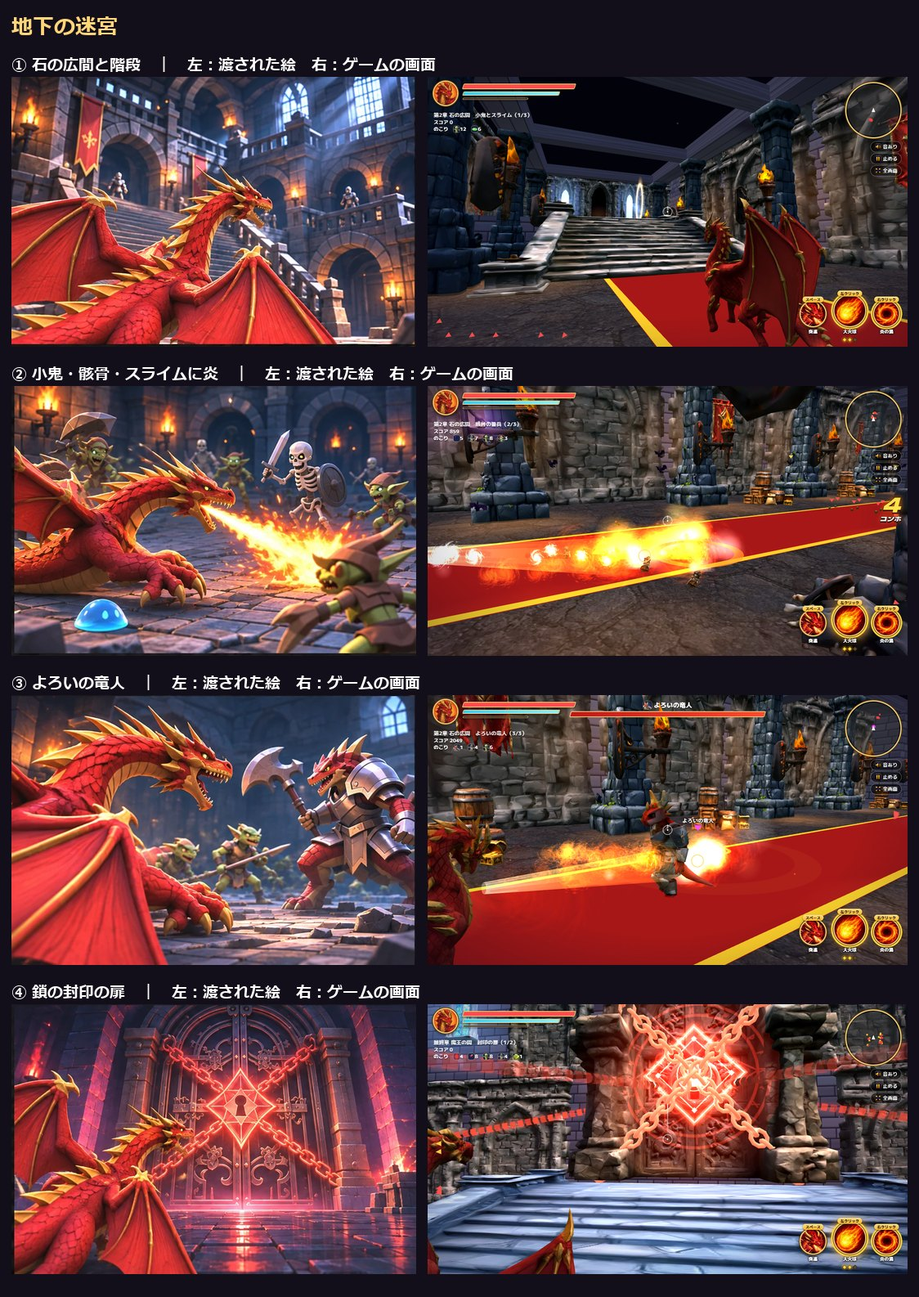
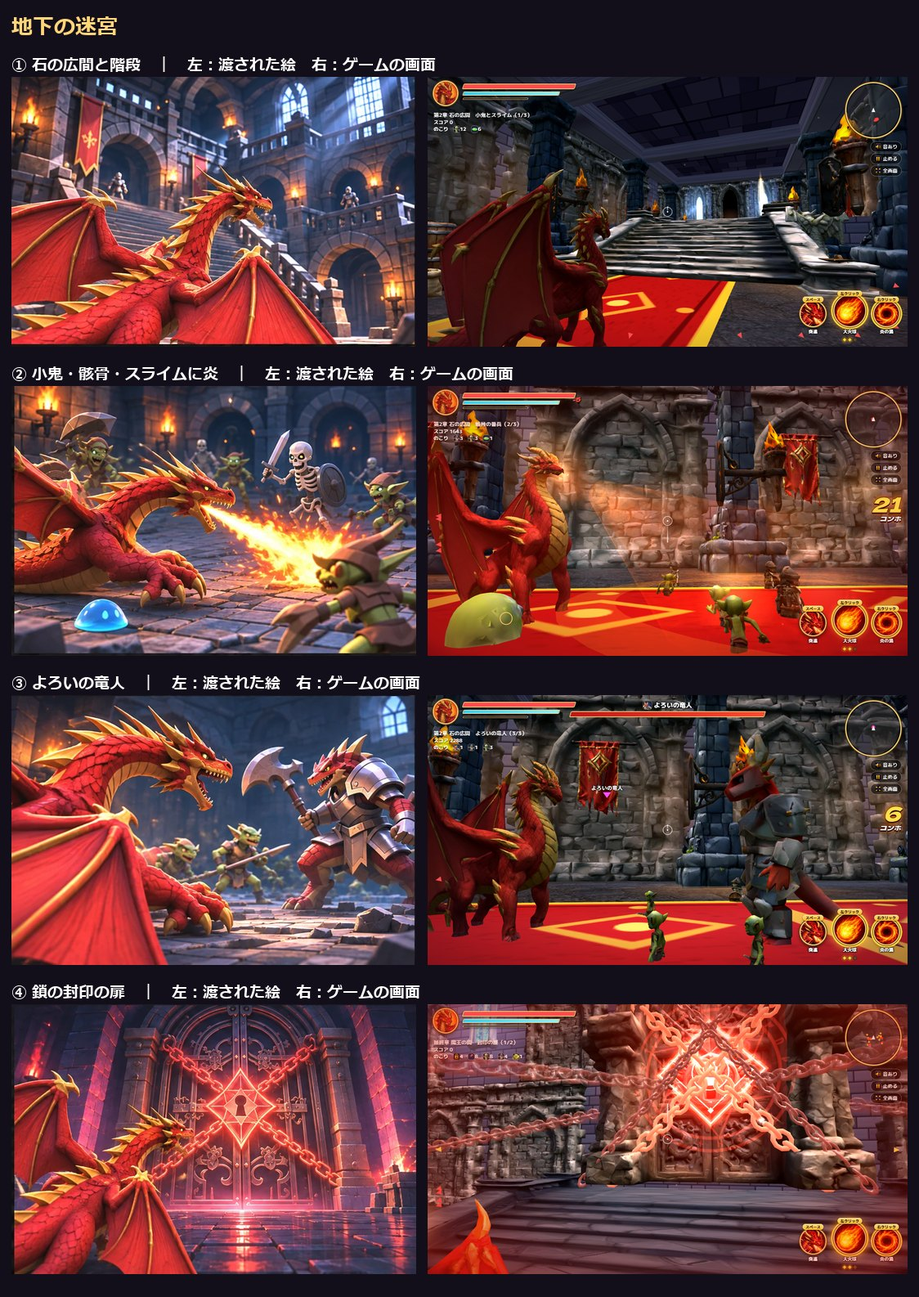
ゲームを更新

diff --git a/hikaku.html b/hikaku.html
@@ -34,8 +34,8 @@ small{color:#b9afcf}
 </style></head><body><main>
 <a class="back" href="./">▶ ゲームを遊ぶ</a>
 <h1>渡された絵 と ゲーム画面の見比べ</h1>
-<p><small>2026年11月15日　版 1116aazp　（左：渡された絵　右：ゲームの画面）</small></p>
-<p class="lead">結論：ふみさんの2回めの指示（11/15 午後）で、表紙の4コマ・洞窟・ワイバーン・迷宮・ゴーレム戦・魔王の間を、絵と同じ構図になるように撮り直しました。王城は、とがった塔のならぶ石の城に作り直しました。洞窟には竜の登場の場面、迷宮には大階段と鎖の封印の扉、魔王の間には「半身封印 → 全身解放」の順番が入りました。まだ弱いのは、谷の地面のやわらかさ、迷宮の敵の小ささ、魔王の間のかべの色です。</p>
+<p><small>2026年11月15日　版 1116aazq　（左：渡された絵　右：ゲームの画面）</small></p>
+<p class="lead">結論：ふみさんの2回めの指示（11/15 午後）で、表紙の4コマ・洞窟・ワイバーン・迷宮・ゴーレム戦・魔王の間を、絵と同じ構図になるように撮り直しました。王城は、とがった塔のならぶ石の城に作り直しました。洞窟には竜の登場の場面、迷宮には大階段と鎖の封印の扉、魔王の間には「半身封印 → 全身解放」の順番が入りました。まだ弱いのは、谷の地面のやわらかさ、炎の形（丸い火の玉のつらなり）、魔王の間のかべの色です。</p>
 <p class="lead" style="font-size:15px">✍ <b>文字で指示できます。</b>各コマの下の黄色い箱で、直したい所にチェック → コピー → Claude Code に貼ってください。コマの見出しも文字で選べます。　関連：<a href="https://dragon-taihi-fumi.surge.sh/">前後の対比</a>／<a href="https://dragon-kamishibai-fumi.surge.sh/">紙芝居の一覧</a>／<a href="https://dragon-shincho-fumi.surge.sh/">身長くらべ</a></p><div class="toc"><a href="#s1">表紙の4コマ</a><a href="#s2">勇者の一行との戦い（洞窟）</a><a href="#s3">ワイバーンとの一騎打ち</a><a href="#s4">地下の迷宮</a><a href="#s5">封印の扉の前のゴーレム戦</a><a href="#s6">魔王の間</a><a href="#s7">こわれる時のかけら（前と今）</a></div>
 <section id="s1"><h2>表紙の4コマ</h2><img src="hikaku.jpg" alt="表紙の4コマ：渡された絵とゲームの画面">
 <div class="card ok"><b>合っている所</b><ul><li>左上：低い所から見上げた、ほえる竜。頭は画面の上、口もとに炎の光。右うしろに、とがった塔のならぶ王城。</li><li>右上：竜が画面の左に大きく、ななめに飛ぶ。行く先に金色の輪が2つ、下に滝と石のアーチ、右上の空にワイバーン、ふちに疾走感の筋。</li><li>左下：左上の竜から右下のゴーレムへ炎のすじ。胸が青く光り、岩のかけらが飛ぶ。</li><li>右下：左下の手前に竜の背と翼。まん中に兵の隊列と投石機、燃える城壁と城、奥の右上に王城。</li></ul></div>
@@ -50,13 +50,13 @@ small{color:#b9afcf}
 <div class="card ng"><b>まだちがう所</b><ul><li>地面は、色のむらと小石を足したが、絵のやわらかい草原には届いていない。</li><li>④は、絵ほど腕や首ががっちり組んでいない。</li><li>③の炎は、丸いかたまりのつらなり。</li></ul></div>
 <div class="card fix"><b>今回直した事</b><ul><li>空を深い青と大きな雲に。一騎打ちの舞台に、石の遺跡・アーチ・滝のがけ・草と花を足した（ふみさん「空の描写、地面の描写とオブジェクト」）。</li><li>突っこむ時の土けむりと石つぶて、ぶつかる時の星形の光、風の帯、速さの筋を足した。</li><li>4コマとも、2体を大きく映して撮り直した（台本 tripo\patches\wyv_look.py・wyv_look2.py、撮る台本 tripo\shots\wyvD\wyv4.py）。</li></ul></div><div class="sjw"><div class="sjt">✍ このコマを直したい時：直したい所にチェック →（書ける時は）どう直すかを書く → コピーして Claude Code に貼る</div><div class="sj" data-sec="ワイバーンとの一騎打ち" data-cap="① 低く突っこんでくる" data-dflt="手本の絵に近づける"><div class="sjh">① 低く突っこんでくる</div><label class="sjp"><input type="checkbox" class="sjk"><span class="sjn">土けむりと疾走感</span><input type="text" class="sji" placeholder="どう直すか（空なら「手本の絵に近づける」）"></label><label class="sjp"><input type="checkbox" class="sjk"><span class="sjn">緑のワイバーンのグラフィック</span><input type="text" class="sji" placeholder="どう直すか（空なら「手本の絵に近づける」）"></label><label class="sjp"><input type="checkbox" class="sjk"><span class="sjn">滝と遺跡の背景</span><input type="text" class="sji" placeholder="どう直すか（空なら「手本の絵に近づける」）"></label><label class="sjp"><input type="checkbox" class="sjk"><span class="sjn">空と雲の描写</span><input type="text" class="sji" placeholder="どう直すか（空なら「手本の絵に近づける」）"></label><label class="sjp"><input type="checkbox" class="sjk"><span class="sjn">キャラクター同士の距離</span><input type="text" class="sji" placeholder="どう直すか（空なら「手本の絵に近づける」）"></label><label class="sjp"><input type="checkbox" class="sjk"><span class="sjn">カメラの位置・構図</span><input type="text" class="sji" placeholder="どう直すか（空なら「手本の絵に近づける」）"></label><label class="sjp"><input type="checkbox" class="sjk"><span class="sjn">色・明るさ</span><input type="text" class="sji" placeholder="どう直すか（空なら「手本の絵に近づける」）"></label><label class="sjp"><input type="checkbox" class="sjk"><span class="sjn">そのほか</span><input type="text" class="sji" placeholder="自由に書く"></label><button type="button" class="sjc">このコマの指示をコピー</button><span class="sjm"></span></div><div class="sj" data-sec="ワイバーンとの一騎打ち" data-cap="② 正面からぶつかる" data-dflt="手本の絵に近づける"><div class="sjh">② 正面からぶつかる</div><label class="sjp"><input type="checkbox" class="sjk"><span class="sjn">ぶつかる火花</span><input type="text" class="sji" placeholder="どう直すか（空なら「手本の絵に近づける」）"></label><label class="sjp"><input type="checkbox" class="sjk"><span class="sjn">2体の近さ</span><input type="text" class="sji" placeholder="どう直すか（空なら「手本の絵に近づける」）"></label><label class="sjp"><input type="checkbox" class="sjk"><span class="sjn">空の描写</span><input type="text" class="sji" placeholder="どう直すか（空なら「手本の絵に近づける」）"></label><label class="sjp"><input type="checkbox" class="sjk"><span class="sjn">遺跡のグラフィック</span><input type="text" class="sji" placeholder="どう直すか（空なら「手本の絵に近づける」）"></label><label class="sjp"><input type="checkbox" class="sjk"><span class="sjn">キャラクター同士の距離</span><input type="text" class="sji" placeholder="どう直すか（空なら「手本の絵に近づける」）"></label><label class="sjp"><input type="checkbox" class="sjk"><span class="sjn">カメラの位置・構図</span><input type="text" class="sji" placeholder="どう直すか（空なら「手本の絵に近づける」）"></label><label class="sjp"><input type="checkbox" class="sjk"><span class="sjn">色・明るさ</span><input type="text" class="sji" placeholder="どう直すか（空なら「手本の絵に近づける」）"></label><label class="sjp"><input type="checkbox" class="sjk"><span class="sjn">そのほか</span><input type="text" class="sji" placeholder="自由に書く"></label><button type="button" class="sjc">このコマの指示をコピー</button><span class="sjm"></span></div><div class="sj" data-sec="ワイバーンとの一騎打ち" data-cap="③ 炎を風でかわす" data-dflt="手本の絵に近づける"><div class="sjh">③ 炎を風でかわす</div><label class="sjp"><input type="checkbox" class="sjk"><span class="sjn">風の渦（緑の光）</span><input type="text" class="sji" placeholder="どう直すか（空なら「手本の絵に近づける」）"></label><label class="sjp"><input type="checkbox" class="sjk"><span class="sjn">炎の描写</span><input type="text" class="sji" placeholder="どう直すか（空なら「手本の絵に近づける」）"></label><label class="sjp"><input type="checkbox" class="sjk"><span class="sjn">飛びちる岩</span><input type="text" class="sji" placeholder="どう直すか（空なら「手本の絵に近づける」）"></label><label class="sjp"><input type="checkbox" class="sjk"><span class="sjn">遺跡と滝</span><input type="text" class="sji" placeholder="どう直すか（空なら「手本の絵に近づける」）"></label><label class="sjp"><input type="checkbox" class="sjk"><span class="sjn">キャラクター同士の距離</span><input type="text" class="sji" placeholder="どう直すか（空なら「手本の絵に近づける」）"></label><label class="sjp"><input type="checkbox" class="sjk"><span class="sjn">カメラの位置・構図</span><input type="text" class="sji" placeholder="どう直すか（空なら「手本の絵に近づける」）"></label><label class="sjp"><input type="checkbox" class="sjk"><span class="sjn">色・明るさ</span><input type="text" class="sji" placeholder="どう直すか（空なら「手本の絵に近づける」）"></label><label class="sjp"><input type="checkbox" class="sjk"><span class="sjn">そのほか</span><input type="text" class="sji" placeholder="自由に書く"></label><button type="button" class="sjc">このコマの指示をコピー</button><span class="sjm"></span></div><div class="sj" data-sec="ワイバーンとの一騎打ち" data-cap="④ 取っ組み合い" data-dflt="手本の絵に近づける"><div class="sjh">④ 取っ組み合い</div><label class="sjp"><input type="checkbox" class="sjk"><span class="sjn">取っ組み合いのポーズ</span><input type="text" class="sji" placeholder="どう直すか（空なら「手本の絵に近づける」）"></label><label class="sjp"><input type="checkbox" class="sjk"><span class="sjn">2体の大きさ</span><input type="text" class="sji" placeholder="どう直すか（空なら「手本の絵に近づける」）"></label><label class="sjp"><input type="checkbox" class="sjk"><span class="sjn">足元の遺跡</span><input type="text" class="sji" placeholder="どう直すか（空なら「手本の絵に近づける」）"></label><label class="sjp"><input type="checkbox" class="sjk"><span class="sjn">背景のグラフィック</span><input type="text" class="sji" placeholder="どう直すか（空なら「手本の絵に近づける」）"></label><label class="sjp"><input type="checkbox" class="sjk"><span class="sjn">キャラクター同士の距離</span><input type="text" class="sji" placeholder="どう直すか（空なら「手本の絵に近づける」）"></label><label class="sjp"><input type="checkbox" class="sjk"><span class="sjn">カメラの位置・構図</span><input type="text" class="sji" placeholder="どう直すか（空なら「手本の絵に近づける」）"></label><label class="sjp"><input type="checkbox" class="sjk"><span class="sjn">色・明るさ</span><input type="text" class="sji" placeholder="どう直すか（空なら「手本の絵に近づける」）"></label><label class="sjp"><input type="checkbox" class="sjk"><span class="sjn">そのほか</span><input type="text" class="sji" placeholder="自由に書く"></label><button type="button" class="sjc">このコマの指示をコピー</button><span class="sjm"></span></div></div></section>
 <section id="s4"><h2>地下の迷宮</h2><img src="hikaku_s4.jpg" alt="地下の迷宮：渡された絵とゲームの画面">
-<div class="card ok"><b>合っている所</b><ul><li>① 入口に、手すりつきの大きな石の階段。青い窓と光のすじ。</li><li>②③ 壁にアーチのくぼみ・柱・赤いたれ幕・たいまつ。</li><li>④ 竜の彫りの扉に、X字の鎖と赤く光るかぎ穴の印。</li></ul></div>
-<div class="card ng"><b>まだちがう所</b><ul><li>②③は、敵が小さく遠い（直している途中）。</li><li>絵の①は階段が折れて、2階の回廊がある。ゲームはまっすぐな階段1つ。</li><li>絵は竜を横から見ている。ゲームは竜のななめうしろから。</li></ul></div>
-<div class="card fix"><b>今回直した事</b><ul><li>壁を作り直した（石1つずつの光とかげ、アーチのくぼみと柱の壁を並べた）。ふみさん「壁がしょぼい、階段がない」。</li><li>石の広間の入口に大階段を置いた（竜は階段の上から始まる）。</li><li>封印の扉を作り直した（鎖の輪・回る紋・脈動・床の赤い照り返し）。</li><li>台本 tripo\patches\dun_look2.py、撮る台本 tripo\shots\dunE\dun6.py。階段・扉・壁のモデルは Tripo で作った。</li></ul></div><div class="sjw"><div class="sjt">✍ このコマを直したい時：直したい所にチェック →（書ける時は）どう直すかを書く → コピーして Claude Code に貼る</div><div class="sj" data-sec="地下の迷宮" data-cap="① 石の広間と階段" data-dflt="手本の絵に近づける"><div class="sjh">① 石の広間と階段</div><label class="sjp"><input type="checkbox" class="sjk"><span class="sjn">かべとアーチ</span><input type="text" class="sji" placeholder="どう直すか（空なら「手本の絵に近づける」）"></label><label class="sjp"><input type="checkbox" class="sjk"><span class="sjn">階段と手すり</span><input type="text" class="sji" placeholder="どう直すか（空なら「手本の絵に近づける」）"></label><label class="sjp"><input type="checkbox" class="sjk"><span class="sjn">たいまつ・旗・窓</span><input type="text" class="sji" placeholder="どう直すか（空なら「手本の絵に近づける」）"></label><label class="sjp"><input type="checkbox" class="sjk"><span class="sjn">床のグラフィック</span><input type="text" class="sji" placeholder="どう直すか（空なら「手本の絵に近づける」）"></label><label class="sjp"><input type="checkbox" class="sjk"><span class="sjn">キャラクター同士の距離</span><input type="text" class="sji" placeholder="どう直すか（空なら「手本の絵に近づける」）"></label><label class="sjp"><input type="checkbox" class="sjk"><span class="sjn">カメラの位置・構図</span><input type="text" class="sji" placeholder="どう直すか（空なら「手本の絵に近づける」）"></label><label class="sjp"><input type="checkbox" class="sjk"><span class="sjn">色・明るさ</span><input type="text" class="sji" placeholder="どう直すか（空なら「手本の絵に近づける」）"></label><label class="sjp"><input type="checkbox" class="sjk"><span class="sjn">そのほか</span><input type="text" class="sji" placeholder="自由に書く"></label><button type="button" class="sjc">このコマの指示をコピー</button><span class="sjm"></span></div><div class="sj" data-sec="地下の迷宮" data-cap="② 小鬼・骸骨・スライムに炎" data-dflt="手本の絵に近づける"><div class="sjh">② 小鬼・骸骨・スライムに炎</div><label class="sjp"><input type="checkbox" class="sjk"><span class="sjn">小鬼・骸骨・スライムのグラフィック</span><input type="text" class="sji" placeholder="どう直すか（空なら「手本の絵に近づける」）"></label><label class="sjp"><input type="checkbox" class="sjk"><span class="sjn">炎の描写</span><input type="text" class="sji" placeholder="どう直すか（空なら「手本の絵に近づける」）"></label><label class="sjp"><input type="checkbox" class="sjk"><span class="sjn">広間の背景</span><input type="text" class="sji" placeholder="どう直すか（空なら「手本の絵に近づける」）"></label><label class="sjp"><input type="checkbox" class="sjk"><span class="sjn">キャラクター同士の距離</span><input type="text" class="sji" placeholder="どう直すか（空なら「手本の絵に近づける」）"></label><label class="sjp"><input type="checkbox" class="sjk"><span class="sjn">カメラの位置・構図</span><input type="text" class="sji" placeholder="どう直すか（空なら「手本の絵に近づける」）"></label><label class="sjp"><input type="checkbox" class="sjk"><span class="sjn">色・明るさ</span><input type="text" class="sji" placeholder="どう直すか（空なら「手本の絵に近づける」）"></label><label class="sjp"><input type="checkbox" class="sjk"><span class="sjn">そのほか</span><input type="text" class="sji" placeholder="自由に書く"></label><button type="button" class="sjc">このコマの指示をコピー</button><span class="sjm"></span></div><div class="sj" data-sec="地下の迷宮" data-cap="③ よろいの竜人" data-dflt="手本の絵に近づける"><div class="sjh">③ よろいの竜人</div><label class="sjp"><input type="checkbox" class="sjk"><span class="sjn">よろいの竜人のグラフィック</span><input type="text" class="sji" placeholder="どう直すか（空なら「手本の絵に近づける」）"></label><label class="sjp"><input type="checkbox" class="sjk"><span class="sjn">斧</span><input type="text" class="sji" placeholder="どう直すか（空なら「手本の絵に近づける」）"></label><label class="sjp"><input type="checkbox" class="sjk"><span class="sjn">背景のグラフィック</span><input type="text" class="sji" placeholder="どう直すか（空なら「手本の絵に近づける」）"></label><label class="sjp"><input type="checkbox" class="sjk"><span class="sjn">キャラクター同士の距離</span><input type="text" class="sji" placeholder="どう直すか（空なら「手本の絵に近づける」）"></label><label class="sjp"><input type="checkbox" class="sjk"><span class="sjn">カメラの位置・構図</span><input type="text" class="sji" placeholder="どう直すか（空なら「手本の絵に近づける」）"></label><label class="sjp"><input type="checkbox" class="sjk"><span class="sjn">色・明るさ</span><input type="text" class="sji" placeholder="どう直すか（空なら「手本の絵に近づける」）"></label><label class="sjp"><input type="checkbox" class="sjk"><span class="sjn">そのほか</span><input type="text" class="sji" placeholder="自由に書く"></label><button type="button" class="sjc">このコマの指示をコピー</button><span class="sjm"></span></div><div class="sj" data-sec="地下の迷宮" data-cap="④ 鎖の封印の扉" data-dflt="手本の絵に近づける"><div class="sjh">④ 鎖の封印の扉</div><label class="sjp"><input type="checkbox" class="sjk"><span class="sjn">鎖の封印の扉</span><input type="text" class="sji" placeholder="どう直すか（空なら「手本の絵に近づける」）"></label><label class="sjp"><input type="checkbox" class="sjk"><span class="sjn">封印の光</span><input type="text" class="sji" placeholder="どう直すか（空なら「手本の絵に近づける」）"></label><label class="sjp"><input type="checkbox" class="sjk"><span class="sjn">床と柱</span><input type="text" class="sji" placeholder="どう直すか（空なら「手本の絵に近づける」）"></label><label class="sjp"><input type="checkbox" class="sjk"><span class="sjn">キャラクター同士の距離</span><input type="text" class="sji" placeholder="どう直すか（空なら「手本の絵に近づける」）"></label><label class="sjp"><input type="checkbox" class="sjk"><span class="sjn">カメラの位置・構図</span><input type="text" class="sji" placeholder="どう直すか（空なら「手本の絵に近づける」）"></label><label class="sjp"><input type="checkbox" class="sjk"><span class="sjn">色・明るさ</span><input type="text" class="sji" placeholder="どう直すか（空なら「手本の絵に近づける」）"></label><label class="sjp"><input type="checkbox" class="sjk"><span class="sjn">そのほか</span><input type="text" class="sji" placeholder="自由に書く"></label><button type="button" class="sjc">このコマの指示をコピー</button><span class="sjm"></span></div></div></section>
+<div class="card ok"><b>合っている所</b><ul><li>① 左手前に竜、右奥に手すりつきの大きな石の階段。青い窓とたいまつ。</li><li>② 左の竜から右へ広がる炎。右に小鬼と骸骨、左下にスライム。</li><li>③ 左に竜、右に大きなよろいの竜人、間に小鬼。壁にアーチのくぼみ・柱・赤いたれ幕。</li><li>④ 竜の彫りの扉に、X字の鎖と赤く光るかぎ穴の印。</li></ul></div>
+<div class="card ng"><b>まだちがう所</b><ul><li>①②③は、撮る時に竜と敵を絵の並びに置き、横からのカメラで撮った物。遊んでいる時のカメラは竜のうしろ。</li><li>絵の①は階段が折れて、2階の回廊がある。ゲームはまっすぐな階段1つ。</li><li>絵は竜を横から見ている。ゲームは竜のななめうしろから。</li></ul></div>
+<div class="card fix"><b>今回直した事</b><ul><li>壁を作り直した（石1つずつの光とかげ、アーチのくぼみと柱の壁を並べた）。ふみさん「壁がしょぼい、階段がない」。</li><li>石の広間の入口に大階段を置いた（竜は階段の上から始まる）。</li><li>封印の扉を作り直した（鎖の輪・回る紋・脈動・床の赤い照り返し）。</li><li>迷宮の敵を大きくした（小鬼 1.7倍・骸骨 1.6倍・よろいの竜人 1.5倍など）。炎は先が広がるだいだい色に。封印の扉は、開く時に石のわくが残り、板だけが下がる。</li><li>台本 tripo\patches\dun_look2.py・dun_look3.py、撮る台本 tripo\shots\dunE\dun6.py。階段・扉・壁のモデルは Tripo で作った。</li></ul></div><div class="sjw"><div class="sjt">✍ このコマを直したい時：直したい所にチェック →（書ける時は）どう直すかを書く → コピーして Claude Code に貼る</div><div class="sj" data-sec="地下の迷宮" data-cap="① 石の広間と階段" data-dflt="手本の絵に近づける"><div class="sjh">① 石の広間と階段</div><label class="sjp"><input type="checkbox" class="sjk"><span class="sjn">かべとアーチ</span><input type="text" class="sji" placeholder="どう直すか（空なら「手本の絵に近づける」）"></label><label class="sjp"><input type="checkbox" class="sjk"><span class="sjn">階段と手すり</span><input type="text" class="sji" placeholder="どう直すか（空なら「手本の絵に近づける」）"></label><label class="sjp"><input type="checkbox" class="sjk"><span class="sjn">たいまつ・旗・窓</span><input type="text" class="sji" placeholder="どう直すか（空なら「手本の絵に近づける」）"></label><label class="sjp"><input type="checkbox" class="sjk"><span class="sjn">床のグラフィック</span><input type="text" class="sji" placeholder="どう直すか（空なら「手本の絵に近づける」）"></label><label class="sjp"><input type="checkbox" class="sjk"><span class="sjn">キャラクター同士の距離</span><input type="text" class="sji" placeholder="どう直すか（空なら「手本の絵に近づける」）"></label><label class="sjp"><input type="checkbox" class="sjk"><span class="sjn">カメラの位置・構図</span><input type="text" class="sji" placeholder="どう直すか（空なら「手本の絵に近づける」）"></label><label class="sjp"><input type="checkbox" class="sjk"><span class="sjn">色・明るさ</span><input type="text" class="sji" placeholder="どう直すか（空なら「手本の絵に近づける」）"></label><label class="sjp"><input type="checkbox" class="sjk"><span class="sjn">そのほか</span><input type="text" class="sji" placeholder="自由に書く"></label><button type="button" class="sjc">このコマの指示をコピー</button><span class="sjm"></span></div><div class="sj" data-sec="地下の迷宮" data-cap="② 小鬼・骸骨・スライムに炎" data-dflt="手本の絵に近づける"><div class="sjh">② 小鬼・骸骨・スライムに炎</div><label class="sjp"><input type="checkbox" class="sjk"><span class="sjn">小鬼・骸骨・スライムのグラフィック</span><input type="text" class="sji" placeholder="どう直すか（空なら「手本の絵に近づける」）"></label><label class="sjp"><input type="checkbox" class="sjk"><span class="sjn">炎の描写</span><input type="text" class="sji" placeholder="どう直すか（空なら「手本の絵に近づける」）"></label><label class="sjp"><input type="checkbox" class="sjk"><span class="sjn">広間の背景</span><input type="text" class="sji" placeholder="どう直すか（空なら「手本の絵に近づける」）"></label><label class="sjp"><input type="checkbox" class="sjk"><span class="sjn">キャラクター同士の距離</span><input type="text" class="sji" placeholder="どう直すか（空なら「手本の絵に近づける」）"></label><label class="sjp"><input type="checkbox" class="sjk"><span class="sjn">カメラの位置・構図</span><input type="text" class="sji" placeholder="どう直すか（空なら「手本の絵に近づける」）"></label><label class="sjp"><input type="checkbox" class="sjk"><span class="sjn">色・明るさ</span><input type="text" class="sji" placeholder="どう直すか（空なら「手本の絵に近づける」）"></label><label class="sjp"><input type="checkbox" class="sjk"><span class="sjn">そのほか</span><input type="text" class="sji" placeholder="自由に書く"></label><button type="button" class="sjc">このコマの指示をコピー</button><span class="sjm"></span></div><div class="sj" data-sec="地下の迷宮" data-cap="③ よろいの竜人" data-dflt="手本の絵に近づける"><div class="sjh">③ よろいの竜人</div><label class="sjp"><input type="checkbox" class="sjk"><span class="sjn">よろいの竜人のグラフィック</span><input type="text" class="sji" placeholder="どう直すか（空なら「手本の絵に近づける」）"></label><label class="sjp"><input type="checkbox" class="sjk"><span class="sjn">斧</span><input type="text" class="sji" placeholder="どう直すか（空なら「手本の絵に近づける」）"></label><label class="sjp"><input type="checkbox" class="sjk"><span class="sjn">背景のグラフィック</span><input type="text" class="sji" placeholder="どう直すか（空なら「手本の絵に近づける」）"></label><label class="sjp"><input type="checkbox" class="sjk"><span class="sjn">キャラクター同士の距離</span><input type="text" class="sji" placeholder="どう直すか（空なら「手本の絵に近づける」）"></label><label class="sjp"><input type="checkbox" class="sjk"><span class="sjn">カメラの位置・構図</span><input type="text" class="sji" placeholder="どう直すか（空なら「手本の絵に近づける」）"></label><label class="sjp"><input type="checkbox" class="sjk"><span class="sjn">色・明るさ</span><input type="text" class="sji" placeholder="どう直すか（空なら「手本の絵に近づける」）"></label><label class="sjp"><input type="checkbox" class="sjk"><span class="sjn">そのほか</span><input type="text" class="sji" placeholder="自由に書く"></label><button type="button" class="sjc">このコマの指示をコピー</button><span class="sjm"></span></div><div class="sj" data-sec="地下の迷宮" data-cap="④ 鎖の封印の扉" data-dflt="手本の絵に近づける"><div class="sjh">④ 鎖の封印の扉</div><label class="sjp"><input type="checkbox" class="sjk"><span class="sjn">鎖の封印の扉</span><input type="text" class="sji" placeholder="どう直すか（空なら「手本の絵に近づける」）"></label><label class="sjp"><input type="checkbox" class="sjk"><span class="sjn">封印の光</span><input type="text" class="sji" placeholder="どう直すか（空なら「手本の絵に近づける」）"></label><label class="sjp"><input type="checkbox" class="sjk"><span class="sjn">床と柱</span><input type="text" class="sji" placeholder="どう直すか（空なら「手本の絵に近づける」）"></label><label class="sjp"><input type="checkbox" class="sjk"><span class="sjn">キャラクター同士の距離</span><input type="text" class="sji" placeholder="どう直すか（空なら「手本の絵に近づける」）"></label><label class="sjp"><input type="checkbox" class="sjk"><span class="sjn">カメラの位置・構図</span><input type="text" class="sji" placeholder="どう直すか（空なら「手本の絵に近づける」）"></label><label class="sjp"><input type="checkbox" class="sjk"><span class="sjn">色・明るさ</span><input type="text" class="sji" placeholder="どう直すか（空なら「手本の絵に近づける」）"></label><label class="sjp"><input type="checkbox" class="sjk"><span class="sjn">そのほか</span><input type="text" class="sji" placeholder="自由に書く"></label><button type="button" class="sjc">このコマの指示をコピー</button><span class="sjm"></span></div></div></section>
 <section id="s5"><h2>封印の扉の前のゴーレム戦</h2><img src="hikaku_s5.jpg" alt="封印の扉の前のゴーレム戦：渡された絵とゲームの画面">
 <div class="card ok"><b>合っている所</b><ul><li>鎖の封印の扉の前に、胸が青白く光るゴーレム。</li><li>炎が当たると、いなずま・光の輪・火花・岩のかけら。</li></ul></div>
-<div class="card ng"><b>まだちがう所</b><ul><li>ゴーレムは見本より小さく、色が暗い（直している途中）。</li><li>画面の文字やボタンの並びは、見本とちがう。</li></ul></div>
-<div class="card fix"><b>今回直した事</b><ul><li>ゴーレムの胸に四角い青白い光・目の光を足した。うしろの扉と壁も作り直した（ふみさん「ゴーレムのグラフィック、封印のグラフィック」）。</li></ul></div><div class="sjw"><div class="sjt">✍ このコマを直したい時：直したい所にチェック →（書ける時は）どう直すかを書く → コピーして Claude Code に貼る</div><div class="sj" data-sec="封印の扉の前のゴーレム戦" data-cap="① 扉の前のゴーレム" data-dflt="手本の絵に近づける"><div class="sjh">① 扉の前のゴーレム</div><label class="sjp"><input type="checkbox" class="sjk"><span class="sjn">ゴーレムのグラフィック</span><input type="text" class="sji" placeholder="どう直すか（空なら「手本の絵に近づける」）"></label><label class="sjp"><input type="checkbox" class="sjk"><span class="sjn">封印の扉</span><input type="text" class="sji" placeholder="どう直すか（空なら「手本の絵に近づける」）"></label><label class="sjp"><input type="checkbox" class="sjk"><span class="sjn">足元の床・岩</span><input type="text" class="sji" placeholder="どう直すか（空なら「手本の絵に近づける」）"></label><label class="sjp"><input type="checkbox" class="sjk"><span class="sjn">画面の文字・ボタンの並び</span><input type="text" class="sji" placeholder="どう直すか（空なら「手本の絵に近づける」）"></label><label class="sjp"><input type="checkbox" class="sjk"><span class="sjn">キャラクター同士の距離</span><input type="text" class="sji" placeholder="どう直すか（空なら「手本の絵に近づける」）"></label><label class="sjp"><input type="checkbox" class="sjk"><span class="sjn">カメラの位置・構図</span><input type="text" class="sji" placeholder="どう直すか（空なら「手本の絵に近づける」）"></label><label class="sjp"><input type="checkbox" class="sjk"><span class="sjn">色・明るさ</span><input type="text" class="sji" placeholder="どう直すか（空なら「手本の絵に近づける」）"></label><label class="sjp"><input type="checkbox" class="sjk"><span class="sjn">そのほか</span><input type="text" class="sji" placeholder="自由に書く"></label><button type="button" class="sjc">このコマの指示をコピー</button><span class="sjm"></span></div><div class="sj" data-sec="封印の扉の前のゴーレム戦" data-cap="② 胸の光へ炎" data-dflt="手本の絵に近づける"><div class="sjh">② 胸の光へ炎</div><label class="sjp"><input type="checkbox" class="sjk"><span class="sjn">胸の青い光</span><input type="text" class="sji" placeholder="どう直すか（空なら「手本の絵に近づける」）"></label><label class="sjp"><input type="checkbox" class="sjk"><span class="sjn">炎の描写</span><input type="text" class="sji" placeholder="どう直すか（空なら「手本の絵に近づける」）"></label><label class="sjp"><input type="checkbox" class="sjk"><span class="sjn">照準の印</span><input type="text" class="sji" placeholder="どう直すか（空なら「手本の絵に近づける」）"></label><label class="sjp"><input type="checkbox" class="sjk"><span class="sjn">背景のグラフィック</span><input type="text" class="sji" placeholder="どう直すか（空なら「手本の絵に近づける」）"></label><label class="sjp"><input type="checkbox" class="sjk"><span class="sjn">キャラクター同士の距離</span><input type="text" class="sji" placeholder="どう直すか（空なら「手本の絵に近づける」）"></label><label class="sjp"><input type="checkbox" class="sjk"><span class="sjn">カメラの位置・構図</span><input type="text" class="sji" placeholder="どう直すか（空なら「手本の絵に近づける」）"></label><label class="sjp"><input type="checkbox" class="sjk"><span class="sjn">色・明るさ</span><input type="text" class="sji" placeholder="どう直すか（空なら「手本の絵に近づける」）"></label><label class="sjp"><input type="checkbox" class="sjk"><span class="sjn">そのほか</span><input type="text" class="sji" placeholder="自由に書く"></label><button type="button" class="sjc">このコマの指示をコピー</button><span class="sjm"></span></div></div></section>
+<div class="card ng"><b>まだちがう所</b><ul><li>炎が当たった時のいなずまが多めで、見本の「胸の1点が光る」感じよりにぎやか。</li><li>見本のぬれて光る床は無い。</li><li>画面の文字やボタンの並びは、見本とちがう。</li></ul></div>
+<div class="card fix"><b>今回直した事</b><ul><li>ゴーレムを大きく（1.5倍）、明るい黄土色にした。扉の前の石段は暗い石の色に。</li><li>ゴーレムの胸に四角い青白い光・目の光を足した。うしろの扉と壁も作り直した（ふみさん「ゴーレムのグラフィック、封印のグラフィック」）。</li></ul></div><div class="sjw"><div class="sjt">✍ このコマを直したい時：直したい所にチェック →（書ける時は）どう直すかを書く → コピーして Claude Code に貼る</div><div class="sj" data-sec="封印の扉の前のゴーレム戦" data-cap="① 扉の前のゴーレム" data-dflt="手本の絵に近づける"><div class="sjh">① 扉の前のゴーレム</div><label class="sjp"><input type="checkbox" class="sjk"><span class="sjn">ゴーレムのグラフィック</span><input type="text" class="sji" placeholder="どう直すか（空なら「手本の絵に近づける」）"></label><label class="sjp"><input type="checkbox" class="sjk"><span class="sjn">封印の扉</span><input type="text" class="sji" placeholder="どう直すか（空なら「手本の絵に近づける」）"></label><label class="sjp"><input type="checkbox" class="sjk"><span class="sjn">足元の床・岩</span><input type="text" class="sji" placeholder="どう直すか（空なら「手本の絵に近づける」）"></label><label class="sjp"><input type="checkbox" class="sjk"><span class="sjn">画面の文字・ボタンの並び</span><input type="text" class="sji" placeholder="どう直すか（空なら「手本の絵に近づける」）"></label><label class="sjp"><input type="checkbox" class="sjk"><span class="sjn">キャラクター同士の距離</span><input type="text" class="sji" placeholder="どう直すか（空なら「手本の絵に近づける」）"></label><label class="sjp"><input type="checkbox" class="sjk"><span class="sjn">カメラの位置・構図</span><input type="text" class="sji" placeholder="どう直すか（空なら「手本の絵に近づける」）"></label><label class="sjp"><input type="checkbox" class="sjk"><span class="sjn">色・明るさ</span><input type="text" class="sji" placeholder="どう直すか（空なら「手本の絵に近づける」）"></label><label class="sjp"><input type="checkbox" class="sjk"><span class="sjn">そのほか</span><input type="text" class="sji" placeholder="自由に書く"></label><button type="button" class="sjc">このコマの指示をコピー</button><span class="sjm"></span></div><div class="sj" data-sec="封印の扉の前のゴーレム戦" data-cap="② 胸の光へ炎" data-dflt="手本の絵に近づける"><div class="sjh">② 胸の光へ炎</div><label class="sjp"><input type="checkbox" class="sjk"><span class="sjn">胸の青い光</span><input type="text" class="sji" placeholder="どう直すか（空なら「手本の絵に近づける」）"></label><label class="sjp"><input type="checkbox" class="sjk"><span class="sjn">炎の描写</span><input type="text" class="sji" placeholder="どう直すか（空なら「手本の絵に近づける」）"></label><label class="sjp"><input type="checkbox" class="sjk"><span class="sjn">照準の印</span><input type="text" class="sji" placeholder="どう直すか（空なら「手本の絵に近づける」）"></label><label class="sjp"><input type="checkbox" class="sjk"><span class="sjn">背景のグラフィック</span><input type="text" class="sji" placeholder="どう直すか（空なら「手本の絵に近づける」）"></label><label class="sjp"><input type="checkbox" class="sjk"><span class="sjn">キャラクター同士の距離</span><input type="text" class="sji" placeholder="どう直すか（空なら「手本の絵に近づける」）"></label><label class="sjp"><input type="checkbox" class="sjk"><span class="sjn">カメラの位置・構図</span><input type="text" class="sji" placeholder="どう直すか（空なら「手本の絵に近づける」）"></label><label class="sjp"><input type="checkbox" class="sjk"><span class="sjn">色・明るさ</span><input type="text" class="sji" placeholder="どう直すか（空なら「手本の絵に近づける」）"></label><label class="sjp"><input type="checkbox" class="sjk"><span class="sjn">そのほか</span><input type="text" class="sji" placeholder="自由に書く"></label><button type="button" class="sjc">このコマの指示をコピー</button><span class="sjm"></span></div></div></section>
 <section id="s6"><h2>魔王の間</h2><img src="hikaku_s6.jpg" alt="魔王の間：渡された絵とゲームの画面">
 <div class="card ok"><b>合っている所</b><ul><li>① かべの大きな赤い魔法陣の前、祭だんの上に、鎖でしばられた半身の魔王。</li><li>② 封印がくだけた後、全身で戦う魔王。</li></ul></div>
 <div class="card ng"><b>まだちがう所</b><ul><li>かべがピンクがかって明るい（見本は暗い石。直している途中）。</li><li>②は竜のうしろから（見本は横から）。</li><li>見本の左右の大きな扉は無い。</li></ul></div>
@@ -71,7 +71,7 @@ small{color:#b9afcf}
 <a class="back" href="./">▶ ゲームを遊ぶ</a>　<a href="story.html">物語を1枚で読むページ</a>
 </main><div class="sjb"><div class="sjr"><span>えらんだ指示：<b class="sjn2">0</b>件</span><button type="button" class="sja">まとめてコピー</button><button type="button" class="sjv g">文を見る</button><button type="button" class="sjx g">全部はずす</button><span class="sjm2"></span></div><textarea readonly></textarea></div><script>
 (function(){
-  var CFG={"page": "見くらべ", "ver": "1116aazp", "url": "https://obake0000.github.io/ore-ga-dragon/hikaku.html"},KEY='shiji_'+CFG.page;
+  var CFG={"page": "見くらべ", "ver": "1116aazq", "url": "https://obake0000.github.io/ore-ga-dragon/hikaku.html"},KEY='shiji_'+CFG.page;
   var boxes=[].slice.call(document.querySelectorAll('.sj'));
   function rows(b){return [].slice.call(b.querySelectorAll('.sjp')).map(function(r){return {k:r.querySelector('.sjk'),n:r.querySelector('.sjn').textContent,i:r.querySelector('.sji')};});}
   function textOf(b){var L=[];rows(b).forEach(function(r){if(!r.k.checked)return;var v=r.i.value.trim();if(r.n==='そのほか'){if(v)L.push('・'+v);}else L.push('・'+r.n+'：'+(v||b.dataset.dflt));});

diff --git a/index.html b/index.html
@@ -961,7 +961,7 @@ const MODEL={},MIX=[];
 // 自分のキャラだけ別のモデルを使う時の対応（ワイバーン＝緑の方）。読めなかった時は元のモデルにもどる
 const PMODEL={wyvern:'wyvern2'};
 // 3Dモデルの版。モデルを作り直したら数字を変える（古い版がブラウザに残らないように）
-const ASSET_V='1116aazp';let LOADED=0,LOADN=0,READY=false;
+const ASSET_V='1116aazq';let LOADED=0,LOADN=0,READY=false;
 function loadStep(){LOADED++;const k=Math.round(LOADED/Math.max(1,LOADN)*100)+'%';const b=$('ldp');if(b)b.style.width=k;const n=$('ldn');if(n)n.textContent=k;}
 function loadDone(){if(READY)return;READY=true;$('title').classList.add('ready');$('press').textContent='クリック／タップではじめる';}
 async function loadModels(){try{await loadModels0();}finally{loadDone();}}
@@ -9496,6 +9496,45 @@ function cvfxUpd(){const nw=performance.now(),rdt=Math.min(0.05,Math.max(0,(nw-C
   f.headB.getWorldPosition(CVFX.p);const t=nw/1000,fl=1+0.16*Math.sin(t*31)+0.1*Math.sin(t*53+1.3),z=CVFX.k*(chg?1.25:1);
   a.visible=b.visible=true;a.position.copy(CVFX.p);b.position.copy(CVFX.p);a.scale.setScalar(2.2*z*fl);b.scale.setScalar(5.2*z*(2-fl));a.material.opacity=0.95*CVFX.k;b.material.opacity=0.55*CVFX.k;}
 {const up0=updPose;updPose=function(){up0.apply(this,arguments);try{cvfxUpd();}catch(e){if(!CVFX.er){CVFX.er=1;console.warn('cover_fx',e);}}};}
+
+/* DL3_ON 迷宮の敵の大きさ・ゴーレムの色・広がる炎・暗い石段・扉の板だけ開く（dun_look3.py） */
+{const DL3={K:{goblin:1.7,skel:1.6,slime:1.25,redcap:1.5,bat:1.25,imp:1.25,drak:1.5,ogre:1.2,golem:1.3,biggolem:1.5},   // 迷宮の中の敵の倍率
+  GC:[1.08,1.02,0.95],GE:[0.06,0.05,0.03],     // ゴーレムの色のかけ算（DL2 の色の上から）と、足す自分の光
+  ST:[0.5,0.46,0.44],                        // 扉の前の石段の色のかけ算（暗い石）
+  bm:new V3(),bL:0,sp:null};window.DL3=DL3;
+const D3A=new V3(),D3B=new V3();
+// 敵の大きさ（出た次のコマで1回だけ）と、ゴーレムの色
+function dl3Tick(dt,rdt){if(!DUN.on||DUN.maou)return;
+  for(let i=0;i<EN.length;i++){const e=EN[i];if(e.dead)continue;
+    if(!e._d3){if(!e._d3w){e._d3w=1;continue;}e._d3=1;const k=DL3.K[e.type];if(k&&e.mesh){e.sc=(e.sc||1)*k;e.r*=k;e.hc*=k;if(e.gk)e.gk*=k;}}
+    if(e._d2&&!e._d3c&&e._gl&&e._gl.mats){e._d3c=1;for(const m of e._gl.mats){m.color.multiply(new THREE.Color(DL3.GC[0],DL3.GC[1],DL3.GC[2]));if(m._e0)m._e0.add(new THREE.Color(DL3.GE[0],DL3.GE[1],DL3.GE[2]));}}}
+  // 炎が当たった時の白い光を弱める（DL2 が毎コマ決めた後で）
+  if(window.DL2&&DL2.gol)for(const G of DL2.gol){const hot=Math.min(1,(G.e._gl&&G.e._gl.burn)||0);G.star.material.opacity*=0.7-0.4*hot;G.star.scale.multiplyScalar(0.72-0.2*hot);G.plate.scale.multiplyScalar(0.8);for(const b of G.bolts)b.material.opacity=Math.min(b.material.opacity,0.6);const gl=G.e._gl;if(gl&&gl.halo){gl.halo.scale.multiplyScalar(0.62);gl.halo.material.opacity*=0.6;gl.core.scale.multiplyScalar(0.75);}}}
+// 炎の筒：迷宮の中では、先が広がるだいだい色に。先に火のかたまり
+const _bc=breathCone;breathCone=function(m,to){_bc.apply(this,arguments);try{const o=BRC.m;if(!o)return;
+  if(DUN.on&&!DUN.maou){const L=o.scale.y,k=L<50?2.3-L*0.016:1.5;o.scale.x*=k;o.scale.z*=k;o.material.color.setHex(0xff8a34);o.material.opacity=Math.min(o.material.opacity,0.12);DL3.bm.copy(m);DL3.bL=L;
+    if(state==='play'&&Math.random()<0.75){D3A.subVectors(to,m).multiplyScalar(1/(L||1));const r=1.2+L*0.12;D3B.set(to.x+rnd(-1,1)*r,to.y+rnd(-0.6,1)*r,to.z+rnd(-1,1)*r).addScaledVector(D3A,-L*0.12);
+      D3A.multiplyScalar(L*0.55);D3A.x+=rnd(-1,1)*L*0.3;D3A.y+=rnd(-0.3,1)*L*0.22;D3A.z+=rnd(-1,1)*L*0.3;flame(D3B,1,2.6+L*0.08,0.36,D3A,0,4);}}
+  else{o.material.color.setHex(0xffffff);DL3.bL=0;}}catch(_){}};
+// 炎のつぶ：迷宮の中の息は、先へ行くほど大きく（口もとは細いまま）
+const _fl=flame;flame=function(pos,n,size,life,vel,type,spd){if(vel===FBV&&DL3.bL>0&&DUN.on&&!DUN.maou){if(Math.random()<0.5)return;const q=Math.min(1,pos.distanceTo(DL3.bm)/DL3.bL);size*=1+q*q*0.9;}return _fl.call(this,pos,n,size,life,vel,type,spd);};
+// 大きな光：迷宮の中では、白っぽい物をだいだい色に、少し小さく（画面が白くとばないように）
+const _gf=glowFlash;const D3C=new THREE.Color();glowFlash=function(pos,col,size,life){if(DUN.on&&!DUN.maou&&size>=12){D3C.set(col);if(D3C.r>0.7&&D3C.g>0.6&&D3C.b>0.45&&D3C.b<=D3C.r)col=0xffa040;size*=0.7;}return _gf.call(this,pos,col,size,life);};
+// 封印の扉を「板」と「わく」に分ける（板＝まん中のうすい所：竜の彫り・鎖・印）
+function dl3Split(g){if(DL3.sp&&DL3.sp.src===g)return DL3.sp;g.computeBoundingBox();const bb=g.boundingBox,H=bb.max.y-bb.min.y,cx=(bb.min.x+bb.max.x)/2,cz=(bb.min.z+bb.max.z)/2,P0=g.attributes.position,I=g.index;if(!I||!(H>0))return null;
+  const leaf=[],frame=[],ok=i=>Math.abs(P0.getX(i)-cx)<0.205*H&&Math.abs(P0.getZ(i)-cz)<0.105*H&&(P0.getY(i)-bb.min.y)<0.87*H;
+  for(let t=0;t<I.count;t+=3){const a=I.getX(t),b=I.getX(t+1),c=I.getX(t+2);((ok(a)?1:0)+(ok(b)?1:0)+(ok(c)?1:0)>=2?leaf:frame).push(a,b,c);}
+  if(leaf.length<300||frame.length<300)return null;const gl=g.clone(),gf=g.clone();gl.setIndex(leaf);gf.setIndex(frame);return DL3.sp={src:g,leaf:gl,frame:gf};}
+function dl3Build(o){if(!o||o.kind==='maou'||!DUN.g)return;const g=DUN.g,gy=DUN.y,cx=o.cx,z0=DUN.z0;
+  // 扉の前の石段を暗い石の色に
+  try{for(const c of g.children){if(c.isGroup&&Math.abs(c.position.x-cx)<0.01&&Math.abs(c.position.z-(z0+29))<0.01&&Math.abs(c.position.y-(gy+0.3))<0.01){c.traverse(q=>{if(q.isMesh&&q.material&&q.material.color){q.material=q.material.clone();q.material.color.multiply(new THREE.Color(DL3.ST[0],DL3.ST[1],DL3.ST[2]));}});break;}}}catch(_){}
+  // 封印の扉：わくは残して、板だけが下がる
+  try{const D=DUN.door;if(D&&D.md&&window.DL2&&DL2.sd){let ms=null;D.md.traverse(q=>{if(q.isMesh&&!ms)ms=q;});const sp=ms&&dl3Split(ms.geometry);
+    if(sp){D.g.updateMatrixWorld(true);const fm=new THREE.Mesh(sp.frame,ms.material);fm.matrixAutoUpdate=false;fm.matrix.copy(new THREE.Matrix4().copy(D.g.matrixWorld).invert().multiply(ms.matrixWorld));fm.castShadow=false;fm.receiveShadow=false;D.g.add(fm);ms.geometry=sp.leaf;
+      const hole=new THREE.Mesh(new THREE.PlaneGeometry(40,58),new THREE.MeshBasicMaterial({color:0x040308}));hole.position.set(0,29,5.2);D.g.add(hole);}}}catch(er){console.warn('dun_look3 door',er);}}
+const _db3=dunBuild;dunBuild=function(o){const r=_db3.apply(this,arguments);try{dl3Build(o);}catch(er){console.warn('dun_look3',er);}return r;};
+const _ud3=updDun;updDun=function(dt,rdt){_ud3.apply(this,arguments);try{dl3Tick(dt||0,rdt||0);}catch(_){}};
+}
 
 window.GAME={P,EN,BLD,WAVES,STAGES,CH,setChar,startGame,setupStage,hurt,go(){KAMI.i=99;$('storyGo').click();},get stage(){return stage;},get D(){return D;},get MODEL(){return MODEL;},get TER(){return TER;},addEnemy,killAll(){EN.slice().forEach(e=>killEnemy(e));},get state(){return state;},get wave(){return wave;},get charKey(){return charKey;},H:(x,z)=>H(x,z),ST,STACKS,get EASY(){return EASY;}};
 </script>
